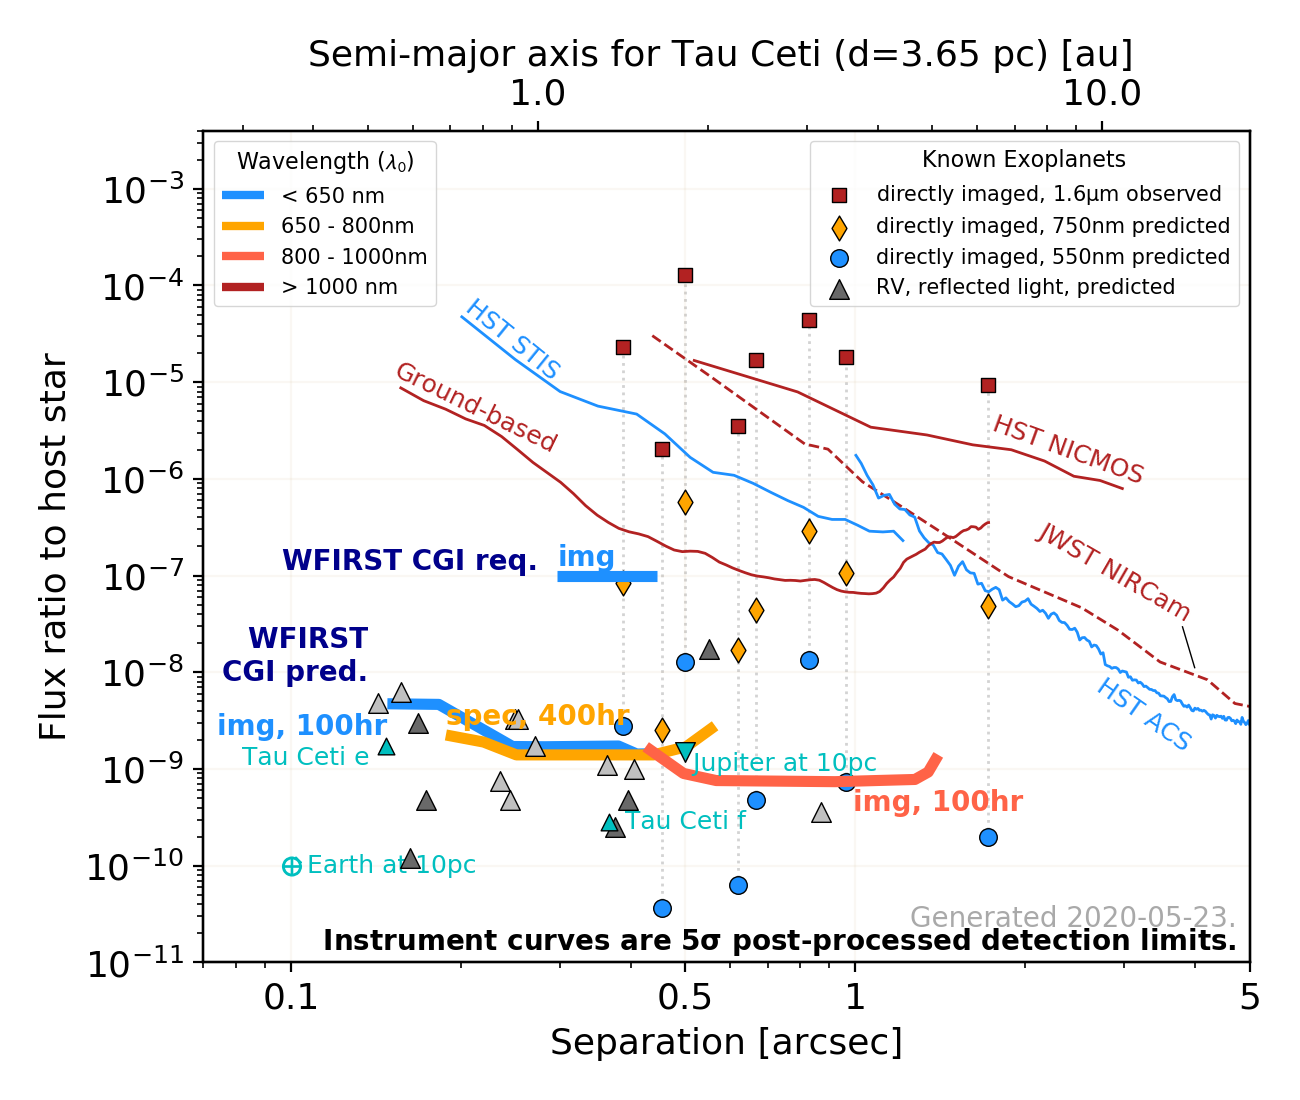
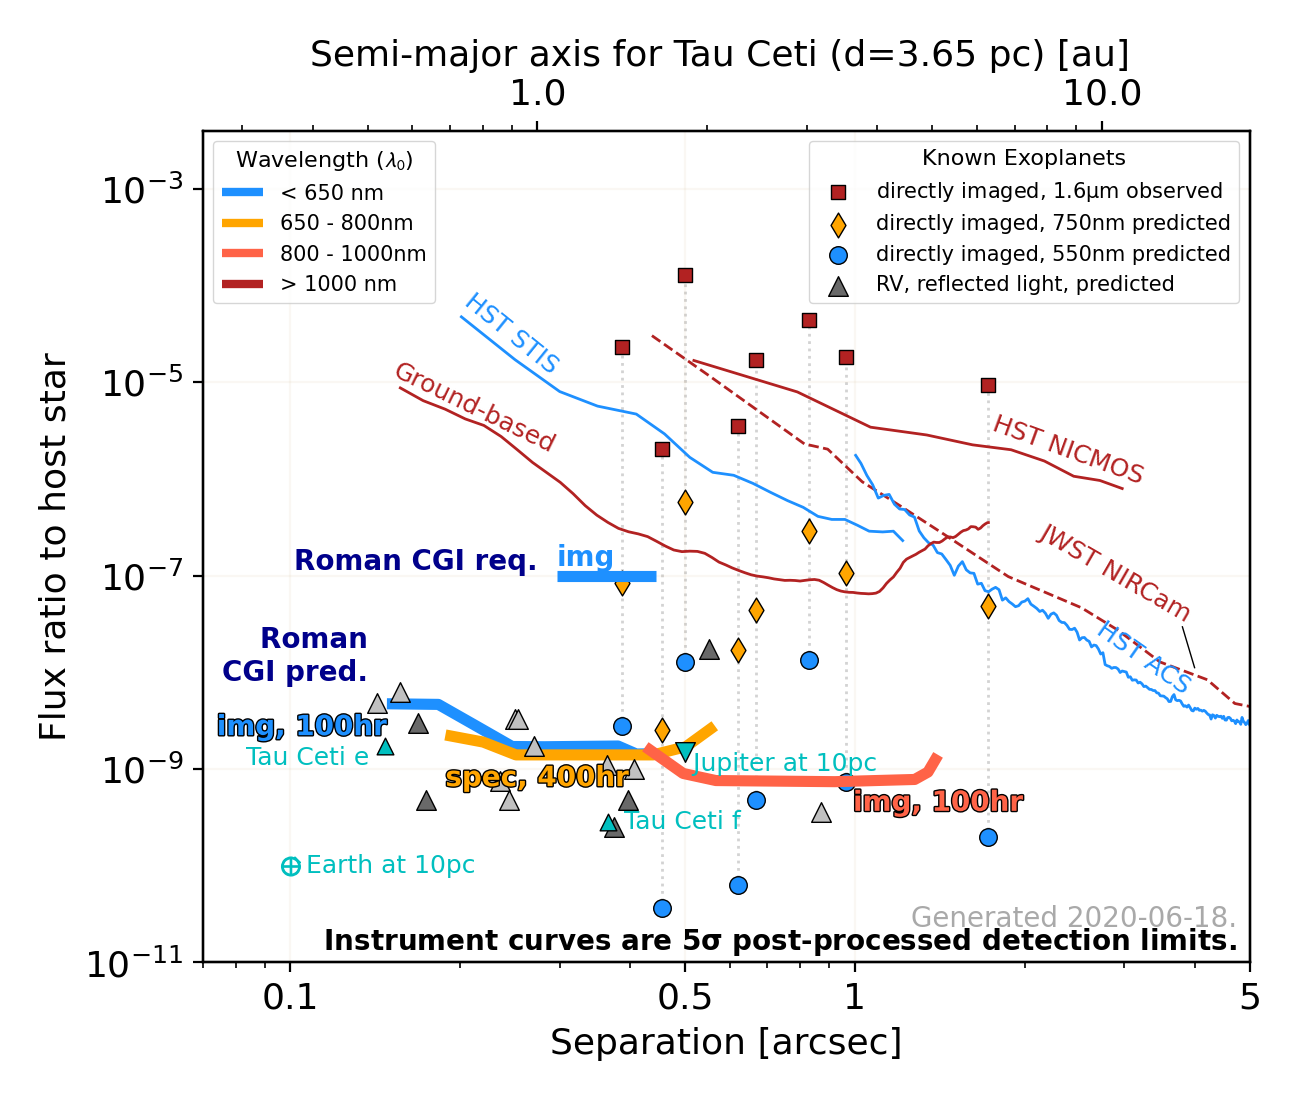
WFIRST -> Roman. Also tweaked The Plot to prevent text from overlapping.

diff --git a/plot_flux_ratio.py b/plot_flux_ratio.py
@@ -5,6 +5,7 @@ import numpy as np
 import matplotlib.pyplot as plt
 import matplotlib.ticker as ticker
 from matplotlib import rcParams
+import matplotlib.patheffects as PathEffects
 from astropy.io import ascii
 import reflected_light_planets as rlp
 from astropy import units as u
@@ -46,7 +47,7 @@ ylim = np.array([float(cfg['y0']), float(cfg['y1'])])
 
 ccfs = cfg['label_font_size']
 lw1 = cfg['other_linewidth']
-lw2 = cfg['wfirst_linewidth']
+lw2 = cfg['roman_linewidth']
 
 
 if cfg['color_by_lambda'].lower() == 'full':
@@ -234,7 +235,7 @@ if cfg['STIS'] is True:
     a_STIS = ascii.read(fname)
     ax1.plot(a_STIS['Rho(as)'],a_STIS['KLIP_Contr'],color=c_bbvis,\
         linewidth=lw1,label='')
-    ax1.text(0.2,5*10**-5,'HST STIS',color=c_bbvis,horizontalalignment='left',rotation=-39,fontsize=ccfs)
+    ax1.text(0.2,5*10**-5.2,'HST STIS',color=c_bbvis,horizontalalignment='left',va='center',rotation=-39,fontsize=ccfs)
     caption += extract_short_caption(fname)
 
 
@@ -308,86 +309,89 @@ if cfg['GPI'] is True or cfg['generic ground-based'] is True:
         txt = 'Gemini GPI'
     if cfg['generic ground-based'] is True:
         txt = 'Ground-based'
-    ax1.text(0.15,1.1*10**-5,txt,color=c_h,horizontalalignment='left',rotation=-26,fontsize=ccfs)
+    ax1.text(0.15,1.1*10**-4.8,txt,color=c_h,horizontalalignment='left',va='top',rotation=-26,fontsize=ccfs)
     caption += extract_short_caption(fname)
 
 
 #########################################################################
-### WFIRST
+### Roman
 
 
 ## predictions
 
 if cfg['pred_img'] is True:
-    fname = datapath+'WFIRST_pred_imaging.txt'
+    fname = datapath+'Roman_pred_imaging.txt'
     dat = ascii.read(fname)
     dat['lambda'].unit = u.nm
     dat['Rho(as)'] = dat['l/D'] * (dat['lambda'] / d_tel).decompose()*206265
     ax1.plot(dat['Rho(as)'], dat['contr_snr5'], color=c_v, linewidth=lw2, label='')
-    ax1.text(dat['Rho(as)'][0], 1.5*dat['contr_snr5'][0], 'WFIRST  \nCGI pred.  ', color='darkblue',\
+    ax1.text(dat['Rho(as)'][0], 1.5*dat['contr_snr5'][0], 'Roman  \nCGI pred.  ', color='darkblue',\
         horizontalalignment='right', verticalalignment='bottom', weight='bold', fontsize=ccfs+1)
     if cfg['exp_t'] is True:
-        ax1.text(dat['Rho(as)'][0], 0.8*dat['contr_snr5'][0], \
+        txt = ax1.text(dat['Rho(as)'][0], 0.8*dat['contr_snr5'][0], \
         'img, %ghr'%(dat['t_int_hr'][0]), color=c_v, weight='bold',\
         horizontalalignment='right', verticalalignment='top', fontsize=ccfs+1)
     else:
-        ax1.text(dat['Rho(as)'][0], 0.8*dat['contr_snr5'][0], 'img', color=c_v, weight='bold',\
+        txt = ax1.text(dat['Rho(as)'][0], 0.8*dat['contr_snr5'][0], 'img', color=c_v, weight='bold',\
             horizontalalignment='right', verticalalignment='top', fontsize=ccfs+1)
+    txt.set_path_effects([PathEffects.withStroke(linewidth=1, foreground='k')])
     caption += extract_short_caption(fname)
 
 
 if cfg['pred_spec'] is True:
-    fname = datapath+'WFIRST_pred_spec.txt'
+    fname = datapath+'Roman_pred_spec.txt'
     dat = ascii.read(fname)
     dat['lambda'].unit = u.nm
     dat['Rho(as)'] = dat['l/D'] * (dat['lambda'] / d_tel).decompose()*206265
     dat['contr_snr5'] = dat['contr_snr10'] / 2.
     ax1.plot(dat['Rho(as)'], dat['contr_snr5'], color=c_band3, linewidth=lw2, label='')
     if cfg['pred_img'] is False:
-        ax1.text(dat['Rho(as)'][-1], dat['contr_snr5'][-1], ' WFIRST\n CGI pred.', color='darkblue',\
+        ax1.text(dat['Rho(as)'][-1], dat['contr_snr5'][-1], ' Roman\n CGI pred.', color='darkblue',\
             horizontalalignment='left', verticalalignment='center', weight='bold', fontsize=ccfs+1)
     if cfg['exp_t'] is True:
-        ax1.text(dat['Rho(as)'][0], 1.1*dat['contr_snr5'][0], \
+        txt = ax1.text(dat['Rho(as)'][0], 0.5*dat['contr_snr5'][0], \
         'spec, %ghr'%(dat['t_int_hr'][0]), color=c_band3, weight='bold',\
-        horizontalalignment='left', verticalalignment='bottom', fontsize=ccfs+1, zorder=6)
+        horizontalalignment='left', verticalalignment='top', fontsize=ccfs+1, zorder=6)
     else:
-        ax1.text(dat['Rho(as)'][0], 1.1*dat['contr_snr5'][0], \
+        txt = ax1.text(dat['Rho(as)'][0], 0.5*dat['contr_snr5'][0], \
         'spec', color=c_band3, weight='bold',\
-        horizontalalignment='left', verticalalignment='bottom', fontsize=ccfs+1, zorder=6)
+        horizontalalignment='left', verticalalignment='top', fontsize=ccfs+1, zorder=6)
+    txt.set_path_effects([PathEffects.withStroke(linewidth=1, foreground='k')])
     caption += extract_short_caption(fname)
 
 
 if cfg['pred_wide_img'] is True:
-    fname = datapath+'WFIRST_pred_wideFOVimaging.txt'
+    fname = datapath+'Roman_pred_wideFOVimaging.txt'
     dat = ascii.read(fname)
     dat['lambda'].unit = u.nm
     dat['Rho(as)'] = dat['l/D'] * (dat['lambda'] / d_tel).decompose()*206265
     ax1.plot(dat['Rho(as)'], dat['contr_snr5'], color=c_band4, linewidth=lw2, label='')
     if (cfg['pred_img'] is False) and (cfg['pred_spec'] is False):
-        ax1.text(dat['Rho(as)'][-1], dat['contr_snr5'][-1], ' WFIRST\n CGI pred.', color='darkblue',\
+        ax1.text(dat['Rho(as)'][-1], dat['contr_snr5'][-1], ' Roman\n CGI pred.', color='darkblue',\
             horizontalalignment='left', verticalalignment='bottom', weight='bold', fontsize=ccfs+1)
     if cfg['exp_t'] is True:
-        ax1.text(dat['Rho(as)'][-1], 0.8*dat['contr_snr5'][-3], \
+        txt = ax1.text(dat['Rho(as)'][-1], 0.8*dat['contr_snr5'][-3], \
         'img, %ghr'%(dat['t_int_hr'][0]), color=c_band4, weight='bold',\
         horizontalalignment='center', verticalalignment='top', fontsize=ccfs+1)
     else:
-        ax1.text(dat['Rho(as)'][-1], 0.8*dat['contr_snr5'][-3], \
+        txt = ax1.text(dat['Rho(as)'][-1], 0.8*dat['contr_snr5'][-3], \
         'img', color=c_band4, weight='bold',\
         horizontalalignment='right', verticalalignment='top', fontsize=ccfs+1)
+    txt.set_path_effects([PathEffects.withStroke(linewidth=1, foreground='k')])
     caption += extract_short_caption(fname)
 
 
 ## L1 requirement TTR 5
 
 if cfg['req'] is True:
-    fname = datapath+'WFIRST_req_TTR5.txt'
+    fname = datapath+'Roman_req_TTR5.txt'
     dat = ascii.read(fname)
     dat['lambda'].unit = u.nm
     dat['Rho(as)'] = dat['l/D'] * (dat['lambda'] / d_tel).decompose()*206265
     ax1.plot(dat['Rho(as)'], dat['contr'], color=c_v, linewidth=lw2, label='')
     ax1.text(dat['Rho(as)'][0], 1.1*dat['contr'][0], 'img', color=c_v, weight='bold',\
         horizontalalignment='left', verticalalignment='bottom', fontsize=ccfs+1)
-    ax1.text(dat['Rho(as)'][0], dat['contr'][0], 'WFIRST CGI req.  ', color='darkblue',\
+    ax1.text(dat['Rho(as)'][0], dat['contr'][0], 'Roman CGI req.  ', color='darkblue',\
         horizontalalignment='right', verticalalignment='bottom', weight='bold', fontsize=ccfs+1)
     caption += extract_short_caption(fname)
 
@@ -395,7 +399,7 @@ if cfg['req'] is True:
 ## Old BTRs
 
 if cfg['old_L2req_img'] is True:
-    fname = datapath+'old_reqs/WFIRST_req_imaging.txt'
+    fname = datapath+'old_reqs/Roman_req_imaging.txt'
     dat = ascii.read(fname)
     ax1.plot(dat['Rho(as)'], dat['Band1_contr_snr5'], color=c_v, linewidth=lw2, label='')
     ax1.text(dat['Rho(as)'][0], 1.1*dat['Band1_contr_snr5'][0], 'img', color=c_v, weight='bold',\
@@ -405,7 +409,7 @@ if cfg['old_L2req_img'] is True:
     caption += extract_short_caption(fname)
 
 if cfg['old_L2req_wide_img'] is True:
-    fname = datapath+'old_reqs/WFIRST_req_wideFOVimaging.txt'
+    fname = datapath+'old_reqs/Roman_req_wideFOVimaging.txt'
     dat = ascii.read(fname)
     ax1.plot(dat['Rho(as)'], dat['Band4_pt_contr_snr5'], color=c_band4, linewidth=lw2, label='')
     ax1.text(dat['Rho(as)'][-3], 1.1*dat['Band4_pt_contr_snr5'][-3], 'img ', color=c_band4, weight='bold',\
@@ -417,7 +421,7 @@ if cfg['old_L2req_wide_img'] is True:
 
 if cfg['old_L2req_spec'] is True:
     import matplotlib.patheffects as path_effects
-    fname = datapath+'/old_reqs/WFIRST_req_spec.txt'
+    fname = datapath+'/old_reqs/Roman_req_spec.txt'
     dat = ascii.read(fname)
     if cfg['old_L2req_wide_img']:  # draw a shadow under the line to make it easier to see if overlapping other req line
         p = [path_effects.SimpleLineShadow(offset=(1, -1)), path_effects.Normal()]

diff --git a/documentation/description.md b/documentation/description.md
@@ -1,14 +1,14 @@
-# WFIRST CGI performance in context
+# Roman CGI performance in context
 
 [comment]: # (Edits and additions welcome! If applicable, also update [1] the repository README, [2] the short caption header of the corresponding data files, [3] use doc.yml to update flux_ratio_doc.png)
 
 [comment]: # (This .md file is compatible with the Pandoc PDF generator. Pandoc PDF uses LaTeX, so please do not use characters that are not recognized by LaTeX. Write any symbols as they'd appear in LaTeX. eg: use $\sigma$ ΝΟΤ σ. Unfortunately, Github doesn't include a math interpreter, so you'll just see the verbatim text online.)
 
-The Coronagraph Instrument (CGI) for NASA’s Wide Field Infrared Survey Telescope (WFIRST) will constitute a dramatic step forward for high-contrast imaging, integral field spectroscopy, and polarimetry of exoplanets and circumstellar disks, aiming to improve upon the sensitivity of current direct imaging facilities by two orders of magnitude or more. Furthermore, CGI will serve as a pathfinder for future terrestrial planet-imaging missions by demonstrating wavefront control, coronagraphy, and spectral retrieval in a new contrast regime, and by validating instrument and telescope models at unprecedented levels of precision. In this document, we present a “WFIRST in context” plot and describe the data and assumptions used to generate it.
+The Coronagraph Instrument (CGI) for NASA’s Wide Field Infrared Survey Telescope (Roman) will constitute a dramatic step forward for high-contrast imaging, integral field spectroscopy, and polarimetry of exoplanets and circumstellar disks, aiming to improve upon the sensitivity of current direct imaging facilities by two orders of magnitude or more. Furthermore, CGI will serve as a pathfinder for future terrestrial planet-imaging missions by demonstrating wavefront control, coronagraphy, and spectral retrieval in a new contrast regime, and by validating instrument and telescope models at unprecedented levels of precision. In this document, we present a “Roman in context” plot and describe the data and assumptions used to generate it.
 
 ![](flux_ratio_doc.png)
 
-_Figure 1:_ Predicted WFIRST performance in the context of known planets and existing and planned high-contrast instruments. The y-axis indicates the flux ratio between a planet and its host star (for individual planets) or between the star and the dimmest source detectable at 5$\sigma$ after post-processing (for instrument performance curves). The lower x-axis is projected separation in arcseconds, and the upper x-axis is the corresponding physical separation for the Tau Ceti system. Points and lines are color-coded by wavelength of observation. Solid and dashed lines are 5-sigma point source detection limits versus separation from the host star; these limits are calculated from post-processed data. The predicted performance for the future observatory, JWST, is plotted as a dashed line. Line labeled "WFIRST CGI req" is the Level 1 preformance  requirement. Lines labeled "WFIRST CGI pred." are current best performance predictions. Triangular points are estimated reflected light flux ratios for known gas giant radial velocity-detected (RV). Red squares are 1.6$\mu m$ flux ratios of known self-luminous directly-imaged (DI) planets. Dotted lines connect each DI planet’s measured 1.6$\mu m$ flux ratio to its predicted flux ratio at 750nm (yellow diamonds) or 550nm (blue circles), based on COND or BT-Settl planet evolutionary models. Cyan points represent the reflected light flux ratios of Earth and Jupiter at 10pc as well as super-Earths Tau Ceti e and f.
+_Figure 1:_ Predicted Roman performance in the context of known planets and existing and planned high-contrast instruments. The y-axis indicates the flux ratio between a planet and its host star (for individual planets) or between the star and the dimmest source detectable at 5$\sigma$ after post-processing (for instrument performance curves). The lower x-axis is projected separation in arcseconds, and the upper x-axis is the corresponding physical separation for the Tau Ceti system. Points and lines are color-coded by wavelength of observation. Solid and dashed lines are 5-sigma point source detection limits versus separation from the host star; these limits are calculated from post-processed data. The predicted performance for the future observatory, JWST, is plotted as a dashed line. Line labeled "Roman CGI req" is the Level 1 preformance  requirement. Lines labeled "Roman CGI pred." are current best performance predictions. Triangular points are estimated reflected light flux ratios for known gas giant radial velocity-detected (RV). Red squares are 1.6$\mu m$ flux ratios of known self-luminous directly-imaged (DI) planets. Dotted lines connect each DI planet’s measured 1.6$\mu m$ flux ratio to its predicted flux ratio at 750nm (yellow diamonds) or 550nm (blue circles), based on COND or BT-Settl planet evolutionary models. Cyan points represent the reflected light flux ratios of Earth and Jupiter at 10pc as well as super-Earths Tau Ceti e and f.
 
 ## Flux Ratio
 
@@ -35,7 +35,7 @@ References: Equations 14 & 15 and table 3 of Traub & Oppenheimer (p. 116 of the 
 
 #### Imaging Mission Database model
 
-The Imaging Mission Database (IMD; plandb.sioslab.com) provides calculated flux ratios at quadrature for known RV planets in the WFIRST CGI bandpasses. The IMD draws the mass and orbit properties of known radial velocity exoplanets from the NExScI Exoplanet archive. If the planet radius has not been measured directly, IMD calculates it with a modified version of the Forecaster model to predict planet radius (not to exceed 1 Jupiter radius for cold planets). It uses Batalha2018 models to predict phase curves; the nearest neighbor grid is selected for stellar metallicity and orbit semi-major axis. We assume clouds with $f_{sed} = 3$.  Dark gray triangles signify V < 5 host stars; light grey triangles signify 5 < V < 6 host stars.
+The Imaging Mission Database (IMD; plandb.sioslab.com) provides calculated flux ratios at quadrature for known RV planets in the Roman CGI bandpasses. The IMD draws the mass and orbit properties of known radial velocity exoplanets from the NExScI Exoplanet archive. If the planet radius has not been measured directly, IMD calculates it with a modified version of the Forecaster model to predict planet radius (not to exceed 1 Jupiter radius for cold planets). It uses Batalha2018 models to predict phase curves; the nearest neighbor grid is selected for stellar metallicity and orbit semi-major axis. We assume clouds with $f_{sed} = 3$.  Dark gray triangles signify V < 5 host stars; light grey triangles signify 5 < V < 6 host stars.
 
 See https://plandb.sioslab.com/about.php for acknowledgement and citation information.  As of March 2020, the following are required:
 
@@ -58,18 +58,18 @@ The authors of any paper submitted for peer reviewed journal publication must ex
 
 ### Directly imaged self-luminous planets
 
-Selected known self-luminous Directly Imaged (DI) exoplanets with measured H-band flux ratios are plotted. Where available, predictions from B. Lacy were used. Otherwise, for those planets with effective temperatures <=1200K, we use AMES-COND models; for the remainder, we use BT-Settl. For all COND/BT values, we assume log(g)=4.0, and we use NextGen stellar models to predict the colors of the host stars at the same wavelengths. From the star and planet color information, we then calculate the expected flux ratio of the planets. For expediency, for COND/BT values, we use WFC3 filters that approximate WFIRST bands: F547M (12%) and F763M (11%), because WFC3 colors were pre-calculated for each of the three model grids.
+Selected known self-luminous Directly Imaged (DI) exoplanets with measured H-band flux ratios are plotted. Where available, predictions from B. Lacy were used. Otherwise, for those planets with effective temperatures <=1200K, we use AMES-COND models; for the remainder, we use BT-Settl. For all COND/BT values, we assume log(g)=4.0, and we use NextGen stellar models to predict the colors of the host stars at the same wavelengths. From the star and planet color information, we then calculate the expected flux ratio of the planets. For expediency, for COND/BT values, we use WFC3 filters that approximate Roman bands: F547M (12%) and F763M (11%), because WFC3 colors were pre-calculated for each of the three model grids.
 
 Models are available at https://phoenix.ens-lyon.fr/Grids/
 
 Lacy models are described at https://ui.adsabs.harvard.edu/abs/2019arXiv191110585L/abstract
 
 
-## WFIRST CGI mission concept predicted detection limits
+## Roman CGI mission concept predicted detection limits
 
 ### CGI requirement, labeled “CGI req.” in the figure
 
-* **Description**: Level 1 requirement (Threshold Technology Requirement 5). WFIRST shall be able to measure (using CGI), with SNR >= 5, the brightness of an astrophysical point source located between 6 and 9 lambda/D from an adjacent star with a $V_{AB}$ magnitude <= 5, with a flux ratio >= $1 10^{-7}$; the bandpass shall have a central wavelength <= 600 nm and a bandwidth >= 10%.
+* **Description**: Level 1 requirement (Threshold Technology Requirement 5). Roman shall be able to measure (using CGI), with SNR >= 5, the brightness of an astrophysical point source located between 6 and 9 lambda/D from an adjacent star with a $V_{AB}$ magnitude <= 5, with a flux ratio >= $1 10^{-7}$; the bandpass shall have a central wavelength <= 600 nm and a bandwidth >= 10%.
 * **Bandpass:** 575nm / 10% BW, Hybrid Lyot coronagraph
 * **Integration time:** Not specified
 * **Post-processing:** The requirements are written for post-processed data; no method is specified.
@@ -87,10 +87,10 @@ Lacy models are described at https://ui.adsabs.harvard.edu/abs/2019arXiv19111058
     * imaging : 100hr
     * spectroscopy : 400hr.
 * **Post-processing:** Reference PSF subtraction, with an assumed additional factor of 2 improvement over the basic-RDI residual speckle component, from the application of more sophisticated post-processing techniques.
-* **Reference:** B. Kern & B. Nemati spreadsheet, personal communication. 
-    
-    
-### Old CGI Tech Demo requirements. 
+* **Reference:** B. Kern & B. Nemati spreadsheet, personal communication.
+
+
+### Old CGI Tech Demo requirements.
 
 Labeled "old L2 req." in figure if enabled.
 
